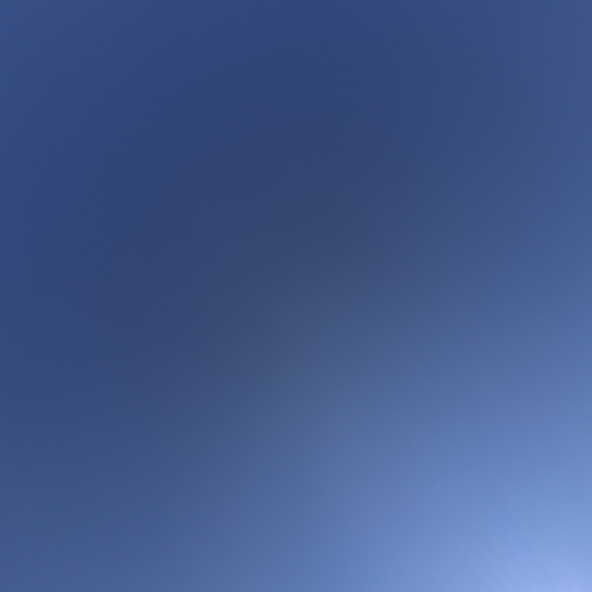
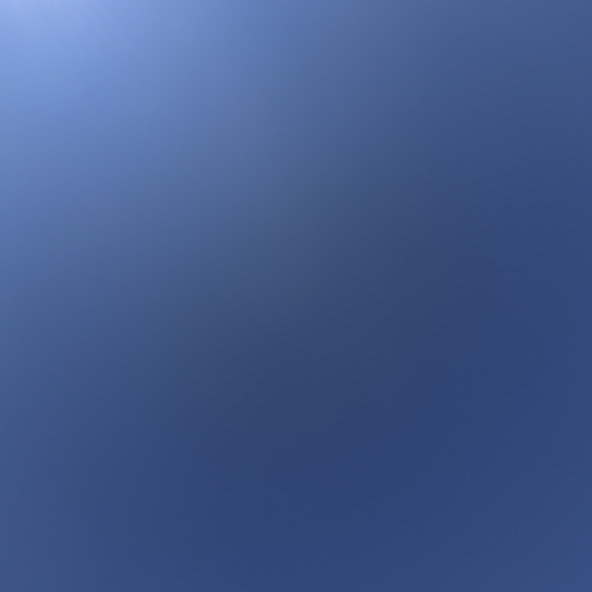
fix cubemap faces and fix refraction artifact caused by too low initial distance when when raymarching

diff --git a/demos/metaballs/metaballs.ts b/demos/metaballs/metaballs.ts
@@ -49,6 +49,12 @@ export class MetaballsRenderer extends Renderer {
         return this._altered.any || this._camera.altered;
     }
 
+    protected onDiscarded(): void {
+        this._altered.alter('canvasSize');
+        this._altered.alter('clearColor');
+        this._altered.alter('frameSize');
+    }
+
     protected onPrepare(): void {
         if (this._altered.canvasSize) {
             this._camera.aspect = this._canvasSize[0] / this._canvasSize[1];
@@ -139,7 +145,7 @@ export class MetaballsRenderer extends Renderer {
         this._camera.far = 4.0;
 
 
-        this._navigation = new Navigation(callback, eventProvider.mouseEventProvider);
+        this._navigation = new Navigation(callback, eventProvider);
         this._navigation.camera = this._camera;
 
         return true;
@@ -161,10 +167,10 @@ export class MetaballsRenderer extends Renderer {
         const metaballs = new Float32Array([
             // x,  y,   z,  metaball-energy
             -0.3, -0.3, 0.9, 0.8,
-            -0.8, 0.1, 0.7, 0.8,
+            -0.8, 0.1, 0.4, 0.8,
             0.4, -0.4, 0.6, 0.9,
             0.5, 0.7, 0.2, 0.9,
-            -0.5, 0.5, 0.2, 0.9,
+            //-0.5, 0.5, 0.2, 0.9,
         ]);
         console.log(metaballs);
 
@@ -176,7 +182,7 @@ export class MetaballsRenderer extends Renderer {
             0.968, 0.411, 0.737, 1.0,
             0.325, 0.454, 0.992, 1.0,
             0.986, 0.274, 0.290, 1.0,
-            0.986, 0.274, 0.290, 1.0,
+            //0.986, 0.274, 0.290, 1.0,
         ]);
         const numberOfMetaballs = metaballs.length / 4;
         const gl = this._context.gl;
